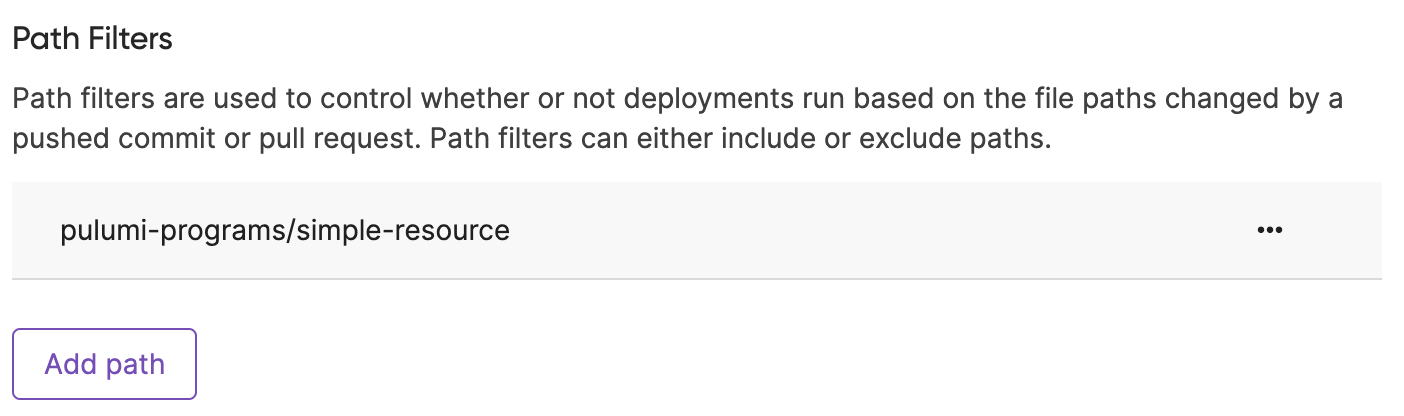
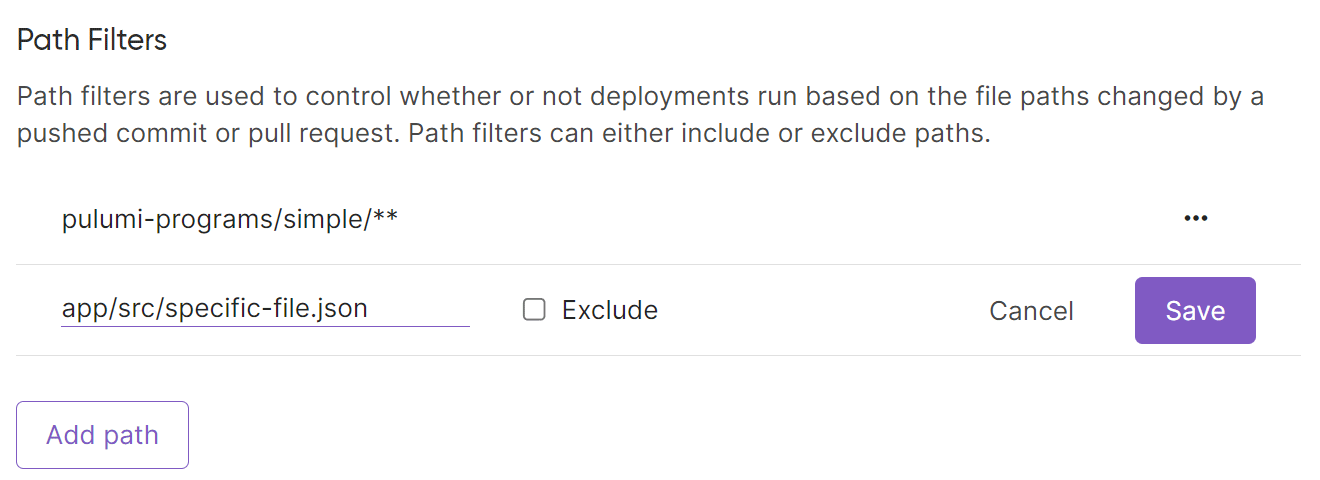
Update Deployments path filters guidance

diff --git a/themes/default/content/docs/pulumi-cloud/deployments/reference.md b/themes/default/content/docs/pulumi-cloud/deployments/reference.md
@@ -204,6 +204,8 @@ Once the GitHub app has been installed, the deployment settings for a stack can 
 
 When using the GitHub app and push-to-deploy, you may want to filter deployment events to only target file changes in specific directories. You can easily do this using path filtering, so a deployment is only triggered if there is a change in files that match the path filters. This is especially useful for monorepos where you may have multiple Pulumi programs within the same repository.
 
+Path filters are relative to the repository root, and should reference a file by name or a directory must reference files by name relative to the repository or directories via glob patterns such as `/**` to include all changes within a directory.
+
 ![Pulumi UI - Path Filters](../ui-path-filters.png)
 
 As with any other deployment setting, the path filters may be set via the Pulumi Console, using the REST API or defined in code using the Service provider.
